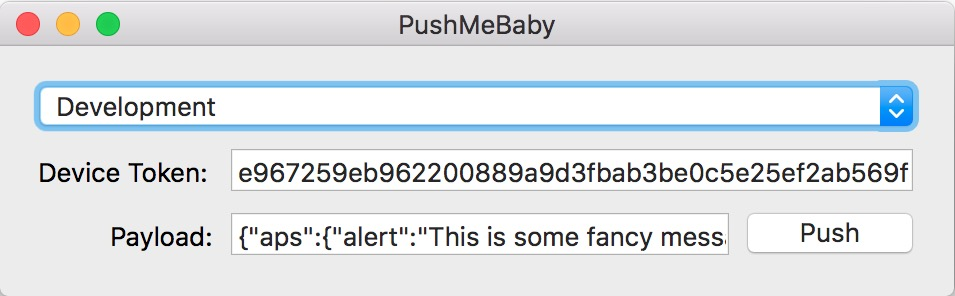
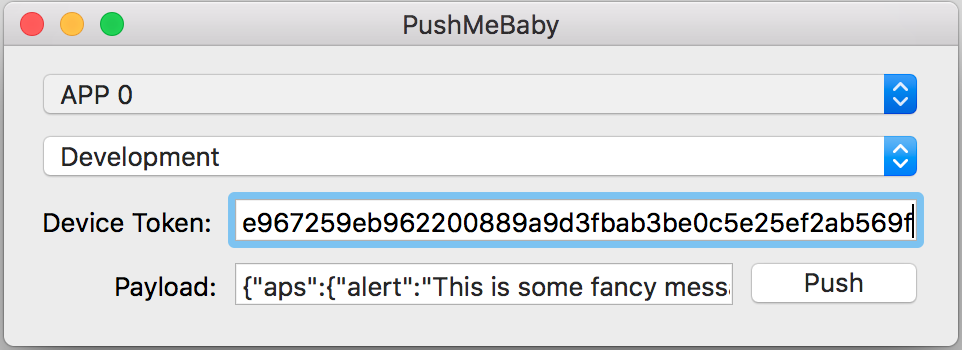
Update README.md

Changed region(s): [[0.0, 0.0, 1.0, 1.0]]

diff --git a/README.md b/README.md
@@ -7,9 +7,37 @@ You can use this app during iOS Push Notification (development or production) to
 # Preview
 ![Screenshot0](https://raw.githubusercontent.com/Dwarven/PushMeBaby/master/Screenshots/Screenshot0.png)
 ![Screenshot1](https://raw.githubusercontent.com/Dwarven/PushMeBaby/master/Screenshots/Screenshot1.png)
+![Screenshot1](https://raw.githubusercontent.com/Dwarven/PushMeBaby/master/Screenshots/Screenshot2.png)
 
 # How to use 
-1. Replace the `aps.cer` and the `aps_development.cer` with your app certificates.
+1. Replace the `cer`s with your app certificates.
+
+```
+//APP 0
+aps0.cer
+aps_development0.cer
+
+//APP 1
+aps1.cer
+aps_development1.cer
+
+//APP 2
+aps2.cer
+aps_development2.cer
+
+//APP 3
+aps3.cer
+aps_development3.cer
+
+//APP 4
+aps4.cer
+aps_development4.cer
+
+//APP 5
+aps5.cer
+aps_development5.cer
+```
+
 2. Guaranteed keychain has the corresponding private keys in your Mac.
 3. Run!
 
